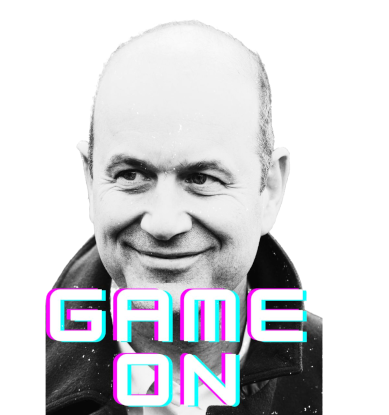
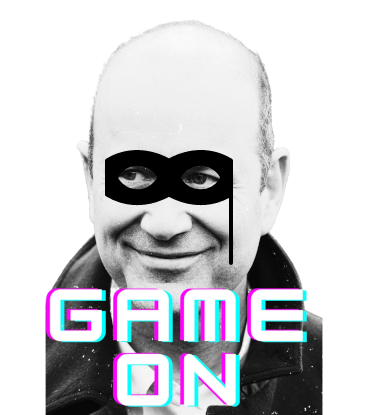
Mejoras easter egg

Changed region(s): [[0.2468, 0.347, 0.617, 0.6361]]

diff --git a/sketch.js b/sketch.js
@@ -76,10 +76,11 @@ function windowResized() {
   resizeCanvas(windowWidth, windowHeight);
 }
 
-function mousePressed() {
-  let centerX = width / 2;
-  let centerY = height / 2;
-  let halfSize = 35;
+function mouseDragged() {
+
+  let centerX = random(width);
+  let centerY = random(height);
+  let halfSize = 40;
 
   if (mouseX > centerX - halfSize && mouseX < centerX + halfSize &&
       mouseY > centerY - halfSize && mouseY < centerY + halfSize) {
